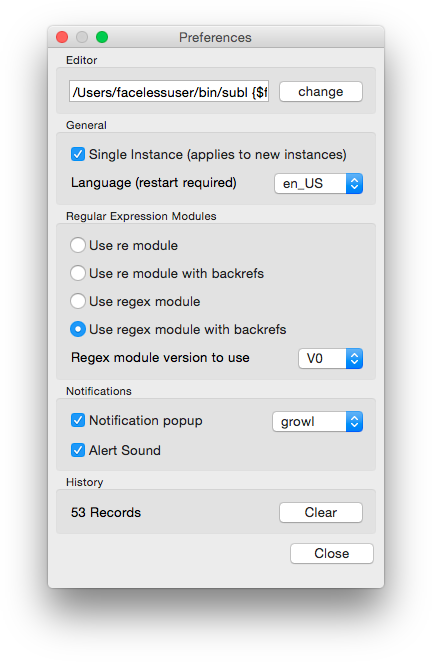
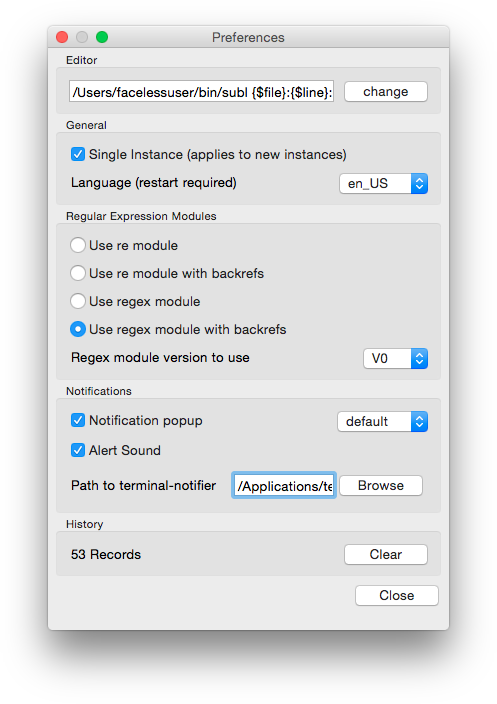
Update documentation: Finish general usage

Changed region(s): [[0.0903, 0.0302, 0.9028, 0.9063]]

diff --git a/docs/user-guide/gui-usage.md b/docs/user-guide/gui-usage.md
@@ -125,6 +125,15 @@ The limit search pattern contains inputs and toggles to filter which files will 
 | Include hidden | The given OS's native hidden files, folders and dotfiles will be included in the search. |
 | Include binary files | Forces rummage to search binary files. |
 
+## Export to CSV or HTML
+
+![HTML Export](../images/html_export.png)
+
+Rummage allows the exporting of the results to either CSV or HTML.  Simply select **File-->Export** and pick either **CSV** or **HTML**.  The HTML output will be styled similar to the GUI interface with the results in tables with sortable columns.
+
+!!! note "Note":
+    Really, really large sets of results will probably be best suited for CSV as a browser may have a hard time loading the entire data set at once.
+
 ## Preferences
 
 ![Preferences](../images/preferences.png)
@@ -133,6 +142,20 @@ The preference dialog (found at **File-->Preferences**) is where Rummage keeps s
 
 ### Editor
 The **Editor** panel is where an editor can be configured that will be used to show files for editing.  To setup, click the `Change` button.  You will be presented with a dialog where you can browse for your editor of choice and manage the arguments to pass to the editor.
+
+![Editor Options](../images/editor_options.png)
+
+The editor options dialog has a file picker to select the the editor.  In OSX it may be beneficial to create a shell script or symlink that you can references as the picker won't be able to descend into an `.app` bundle as it is viewed as a file instead of a folder.
+
+You can then add arguments.  Each argument must be added as a separate entry.  So something like `--file myfile.txt` would be counted as **two** arguments while `--file=myfile` would be counted as one.
+
+As noted in the image above, Rummage provides 3 special variables that can be used to insert the file name, line number, or column number.
+
+| Argument Variables | Description |
+|--------------------|-------------|
+| \{$file} | Insert the file name. |
+| \{$line} | Insert the line number. |
+| \{$col}  | Insert the column number. |
 
 ### General
 The **General** panel contains a couple of useful settings.
@@ -146,24 +169,32 @@ Language
     Rummage has internal support to display dialog labels in different languages.  Currently Rummage has English and most of Russian.
 
 ### Regular Expression Modules
-The **Regular Expression Modules** panel is where the desired regular expression engine that Rummage uses can be selected.  By default, Rummage will use **re**, but if **regex** is installed in your Python installation, it can be selected as well.  There is also the option of using [backrefs](#backrefs) (a wrapper that adds a couple of special escapes) with your engine of choice as well.
+The **Regular Expression Modules** panel is where the desired regular expression engine that Rummage uses can be selected.  By default, Rummage will use **re**, but if **regex** is installed in your Python installation, it can be selected as well.  There is also the option of using [backrefs](#backrefs-extended-regex-escapes) (a wrapper that adds a couple of special escapes) with your engine of choice as well.
 
 If using **regex**, you can set it the version (mode) to use.  `V0` tries to be completely compatible with **re**.  `V1` breaks compatibility with **re** but adds a number of useful additions even over **V0**.
 
 ### Notifications
 The **Notification** panel controls enabling/disabling and configuration of notifications.  You can enable/disable notification popups and/or audible notification sound.
 
-You can also select whether to use the systems builtin notifications or growl.
+You can also select whether to use the systems built in notifications or growl.
 
 Ubuntu
 : 
    - Growl: Support for Linux - http://mattn.github.io/growl-for-linux/.
    - Native: OSD via `notify-send`.
 
+    !!! Note "Note"
+        Though Rummage should run on any Linux distro, the native dialog option was built around Ubuntu's native notifications called OSD.  Notifications will not work on other distros that do not use OSD **unless** they use Growl.  Even without Growl, other distros will probably still get the audible cue but, as each distro varies; it is difficult to be certain.  As notifications are not crucial to usage, this is minor concern.
+
 OSX
 : 
     - Growl: Support for OSX - http://growl.info/.
     - Native: Notification Center via [terminal-notifier](https://github.com/alloy/terminal-notifier). Path to `terminal-notifier` must be configured.
+
+    !!! Note "Note"
+        When selecting `native` on OSX, an option to select the path to terminal notifier will be available since native dialogs rely on `terminal-notifier` to send notifications to the Notification Center. This must be configured or *native* notifications will not work.
+
+        When selecting the `terminal-notifier` path, you can select either the binary directly or the `.<app` bundle (depending on how you installed `terminal-notifier`).  When selecting the `.app` bundle, Rummage will know how to access the binary inside the bundle.
 
 Windows
 : 
@@ -174,7 +205,7 @@ Windows
 ### History
 The **History** panel is where all text box drop down history can be cleared.
 
-## Backrefs
+## Backrefs (Extended Regex Escapes)
 Rummage has the option of using a special wrapper around Python's **re** or **regex** library called backrefs.  Backrefs was written for use with Rummage and adds various additional backrefs that are known to some regex engines, but not to Python's **re** or **regex**.  The supported back references actually vary depending on the engine being used as one may already have support.  You can enable extended back references in the **Preferences** dialog under the [Regular Expressions Module](#regular-expression-modules) panel.
 
 ### Search Back References

diff --git a/docs/index.md b/docs/index.md
@@ -7,7 +7,9 @@ A Python search and replace tool.
     Documentation is currently under construction for the 1.0.0 release.  Things could change.
 
 ## Overview
-Rummage is a cross platform tool for crawling directories and searching and replacing in text files.  It is written in Python.  Rummage allows for literal or regex searches and has configurations for limiting the files that are searched.
+Rummage is a cross platform tool for crawling directories and searching and replacing in text files.  It is written in Python and using wxPython for the GUI.  Rummage allows for literal or regex searches and has configurations for limiting the files that are searched.
+
+Rummage also has a documented API for accessing the core library for custom search and replace scripts.  You can even write your own custom GUI around the core.
 
 Rummage was inspired by the tool I use in windows called [grepWin](http://stefanstools.sourceforge.net/grepWin.html).  I wanted a similar tool in OSX and Linux, but I found none that I liked...so I wrote Rummage.  The feel is loosely based off of GrepWin.  It is written in Python; therefore, it will be slower on searches than it would be if the searching were written in C.  If you specify an encoding when searching large projects, it should perform quite reasonably as it won't have to guess the encoding of files. On small projects, encoding guessing isn't too bad.  Though I still use grepWin on Windows, Rummage can come in handy by doing things such as fuzzy searching (when using the python **regex** engine) which grepWin cannot do.  It can also dump its results to either CSV or HTML which is sometimes nice.
 

diff --git a/docs/api.md b/docs/api.md
@@ -1,0 +1,7 @@
+# API Usage {: .doctitle}
+How to write personal scripts with rumcore.
+
+---
+
+!!! caution "Under Construction"
+    Nothing to see here.

diff --git a/docs/installation.md b/docs/installation.md
@@ -1,0 +1,7 @@
+# Installation {: .doctitle}
+Installing Rummage.
+
+---
+
+!!! caution "Under Construction"
+    Nothing to see here.
